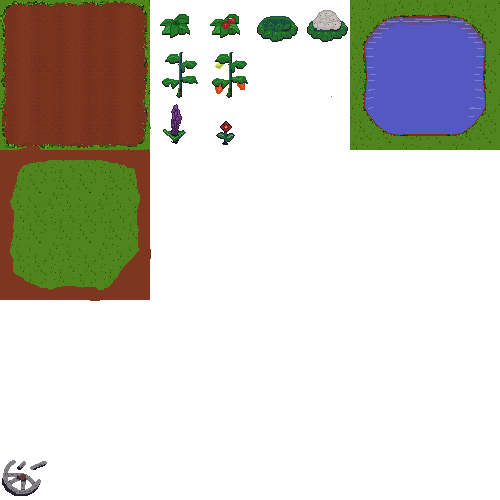
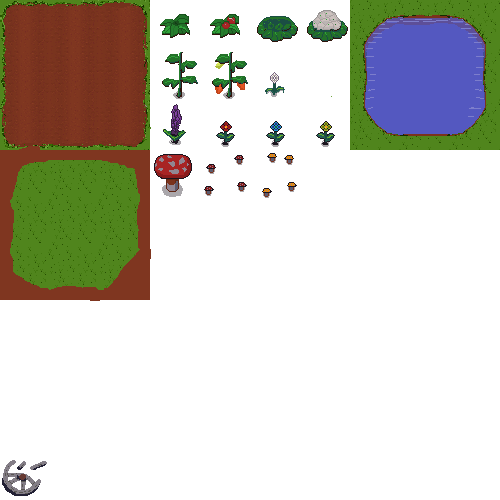
Added flowers/mushrooms

diff --git a/js/ImageLoading.js b/js/ImageLoading.js
@@ -120,7 +120,7 @@ function loadImages() {
 			{tileType: TILE_GARDEN_RIGHTSIDE,  theFile: "ground.png", locX: 100, locY: 50, width: 50, height: 50, offSetX: 0, offSetY: 0},
 			{tileType: TILE_VEGETABLE5,  theFile: "ground.png", locX: 150, locY: 50, width: 50, height: 50, offSetX: 0, offSetY: 0},
 			{tileType: TILE_VEGETABLE6,  theFile: "ground.png", locX: 200, locY: 50, width: 50, height: 50, offSetX: 0, offSetY: 0},
-			//OPEN
+			{tileType: TILE_WHITE_FLOWER,  theFile: "ground.png", locX: 250, locY: 50, width: 50, height: 50, offSetX: 0, offSetY: 0},
 			//OPEN
 			{tileType: TILE_POND_LEFTSIDE,  theFile: "ground.png", locX: 350, locY: 50, width: 50, height: 50, offSetX: 0, offSetY: 0},
 			{tileType: TILE_POND,  theFile: "ground.png", locX: 400, locY: 50, width: 50, height: 50, offSetX: 0, offSetY: 0},
@@ -131,8 +131,8 @@ function loadImages() {
 			{tileType: TILE_GARDEN_BR,  theFile: "ground.png", locX: 100, locY: 100, width: 50, height: 50, offSetX: 0, offSetY: 0},
 			{tileType: TILE_LAVANDER,  theFile: "ground.png", locX: 150, locY: 100, width: 50, height: 50, offSetX: 0, offSetY: 0},
 			{tileType: TILE_RED_FLOWER,  theFile: "ground.png", locX: 200, locY: 100, width: 50, height: 50, offSetX: 0, offSetY: 0},
-			//OPEN
-			//OPEN
+			{tileType: TILE_BLUE_FLOWER,  theFile: "ground.png", locX: 250, locY: 100, width: 50, height: 50, offSetX: 0, offSetY: 0},
+			{tileType: TILE_YELLOW_FLOWER,  theFile: "ground.png", locX: 300, locY: 100, width: 50, height: 50, offSetX: 0, offSetY: 0},
 			{tileType: TILE_POND_BL,  theFile: "ground.png", locX: 350, locY: 100, width: 50, height: 50, offSetX: 0, offSetY: 0},
 			{tileType: TILE_POND_BOTTOM,  theFile: "ground.png", locX: 400, locY: 100, width: 50, height: 50, offSetX: 0, offSetY: 0},
 			{tileType: TILE_POND_BR,  theFile: "ground.png", locX: 450, locY: 100, width: 50, height: 50, offSetX: 0, offSetY: 0},
@@ -140,9 +140,9 @@ function loadImages() {
 			{tileType: TILE_GRASSTODIRT_TL,  theFile: "ground.png", locX: 0, locY: 150, width: 50, height: 50, offSetX: 0, offSetY: 0},
 			{tileType: TILE_GRASSTODIRT_TOP,  theFile: "ground.png", locX: 50, locY: 150, width: 50, height: 50, offSetX: 0, offSetY: 0},
 			{tileType: TILE_GRASSTODIRT_TR,  theFile: "ground.png", locX: 100, locY: 150, width: 50, height: 50, offSetX: 0, offSetY: 0},
-			//OPEN
-			//OPEN
-			//OPEN
+			{tileType: TILE_GIANT_MUSHROOM,  theFile: "ground.png", locX: 150, locY: 150, width: 50, height: 50, offSetX: 0, offSetY: 0},
+			{tileType: TILE_RED_MUSHROOM,  theFile: "ground.png", locX: 200, locY: 150, width: 50, height: 50, offSetX: 0, offSetY: 0},
+			{tileType: TILE_YELLOW_MUSHROOM,  theFile: "ground.png", locX: 250, locY: 150, width: 50, height: 50, offSetX: 0, offSetY: 0},
 			//OPEN
 			//OPEN
 			//OPEN

diff --git a/js/scenes/levelOne.js b/js/scenes/levelOne.js
@@ -46,12 +46,12 @@ function getLevelOneLayers () {
 			42,  42,  42,  42,  42,  42,  42,  42, 109, 109, 109, 109, 109, 109,  42,  42,  42,  42,  33,  34,  35,
 		    42,  42,  42,  42,  42,  42,  42,  42, 110, 110, 110, 110, 110, 110,  42,  42,  42,  42,  36,  37,  38,
 			42,  42,  42,  42,  42,  42,  42,  42,  42,  50,  42,  51,  42,  42,  42,  42,  42,  42,  42,  42,  42,
-			42,  42,  42,  42,  42,  42,  42,  42,  49,  42,  42,  42,  42,  42,  42,  42,  42,  42,  42,  42,  42,
+			42,  42,  52,  53,  42,  42,  42,  42,  49,  42,  54,  42,  42,  42,  42,  42,  42,  42,  42,  42,  42,
 			42,  42,  42,  42,  42,  42,  42,  48,  52,  53,  42,  42,  42,  42,  42,  42,  42,  42,  42,  42,  42, //15
 			42,  42,  42,  42,  42,  42,  42,  42,  42,  42,  42,  42,  42,  42,  42,  42,  42,  42,  42,  42,  42,
 			42,  42,  42,  42,  42,  42,  42,  42,  42,  42,  42,  42,  42,  42,  42,  42,  42,  42,  42,  42,  42,
-			42,  42,  42,  42,  42,  42,  42,  42, 153,  42,  42,  42,  42,  42,  42,  42,  42,  42,  42,  42,  42,
-			42,  42,  42,  42,  42,  42,  42,  42,  42,  42,  42,  42,  42,  42,  42,  42,  42,  42,  42,  42,  42,
+			42,  42,  55,  42,  42,  42,  42,  42, 153,  56,  42,  42,  42,  42,  42,  42,  42,  42,  42,  42,  42,
+			42,  42,  42,  42,  56,  42,  42,  42,  57,  57,  42,  42,  42,  42,  42,  42,  42,  42,  42,  42,  42,
 			42,  42,  42,  42,  42,  42,  42,  42,  42,  42,  42,  42,  42,  42,  42,  42,  42,  42,  42,  42,  42, //20
 		],
 		//foreground layer is where overlays occur.  Player walks through the door and top layer will be above the player.

diff --git a/js/World.js b/js/World.js
@@ -79,8 +79,14 @@ const TILE_LARGE_ROCK_1 = 48;
 const TILE_LARGE_ROCK_2 = 49;
 const TILE_LAVANDER = 50;
 const TILE_RED_FLOWER = 51;
-const TILE_LARGE_ROCK_3 = 52;
-const TILE_LARGE_ROCK_4 = 53;
+const TILE_BLUE_FLOWER = 52;
+const TILE_YELLOW_FLOWER = 53;
+const TILE_WHITE_FLOWER = 54;
+const TILE_GIANT_MUSHROOM = 55;
+const TILE_RED_MUSHROOM = 56;
+const TILE_YELLOW_MUSHROOM = 57;
+const TILE_LARGE_ROCK_3 = 60;
+const TILE_LARGE_ROCK_4 = 61;
 
 //Walls 101 through 200
 const TILE_WALL1_TOPLEFT = 101;

diff --git a/js/gridElements.js b/js/gridElements.js
@@ -61,6 +61,12 @@ function isWorldTypeWalkable(walkIntoTileType){  //Walk Speed through it, and 0 
     case TILE_GRASSTODIRT_BR:
     case TILE_LAVANDER:
     case TILE_RED_FLOWER:
+    case TILE_YELLOW_FLOWER:
+    case TILE_BLUE_FLOWER:
+    case TILE_GIANT_MUSHROOM: 
+    case TILE_RED_MUSHROOM:
+    case TILE_YELLOW_MUSHROOM:
+    case TILE_WHITE_FLOWER:  
         return 3.5;
     case TILE_GRASS:
         return 4.0;
